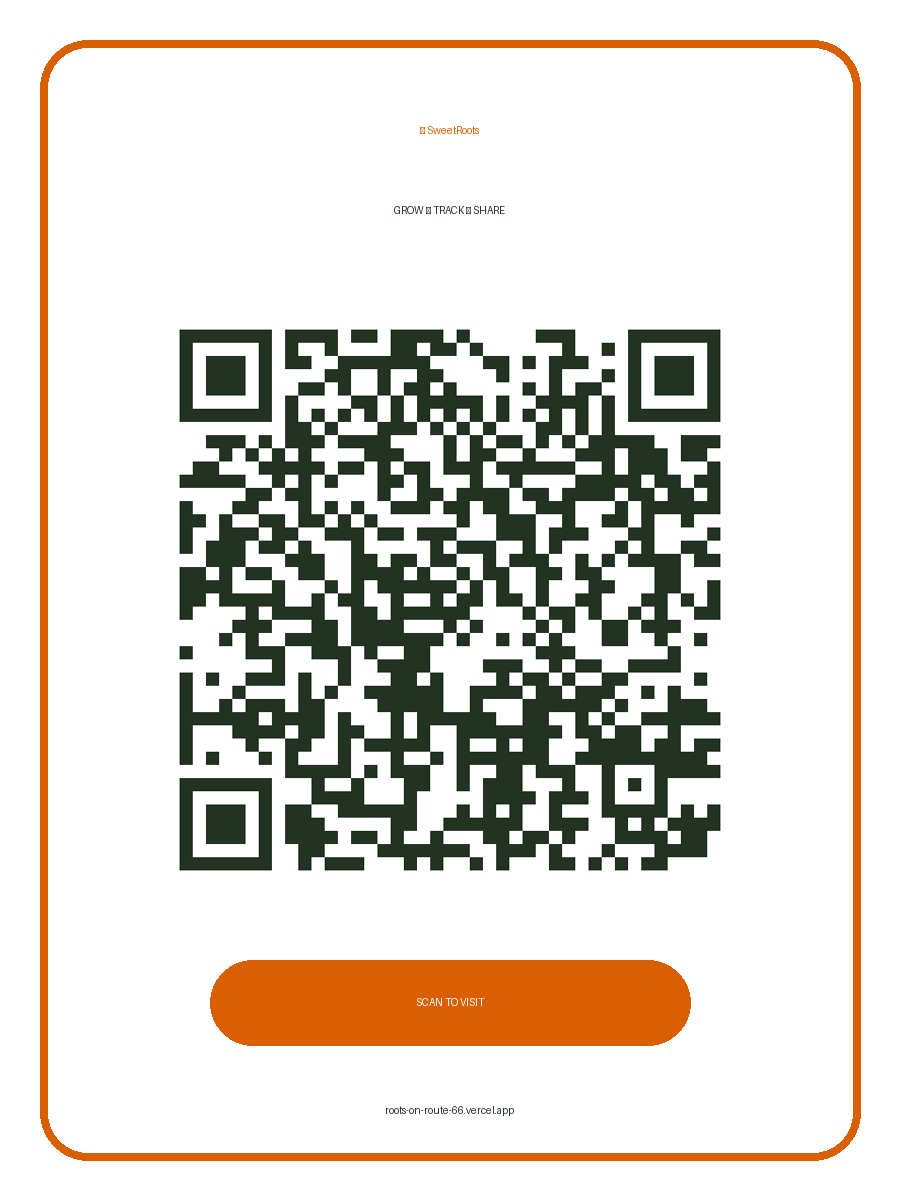
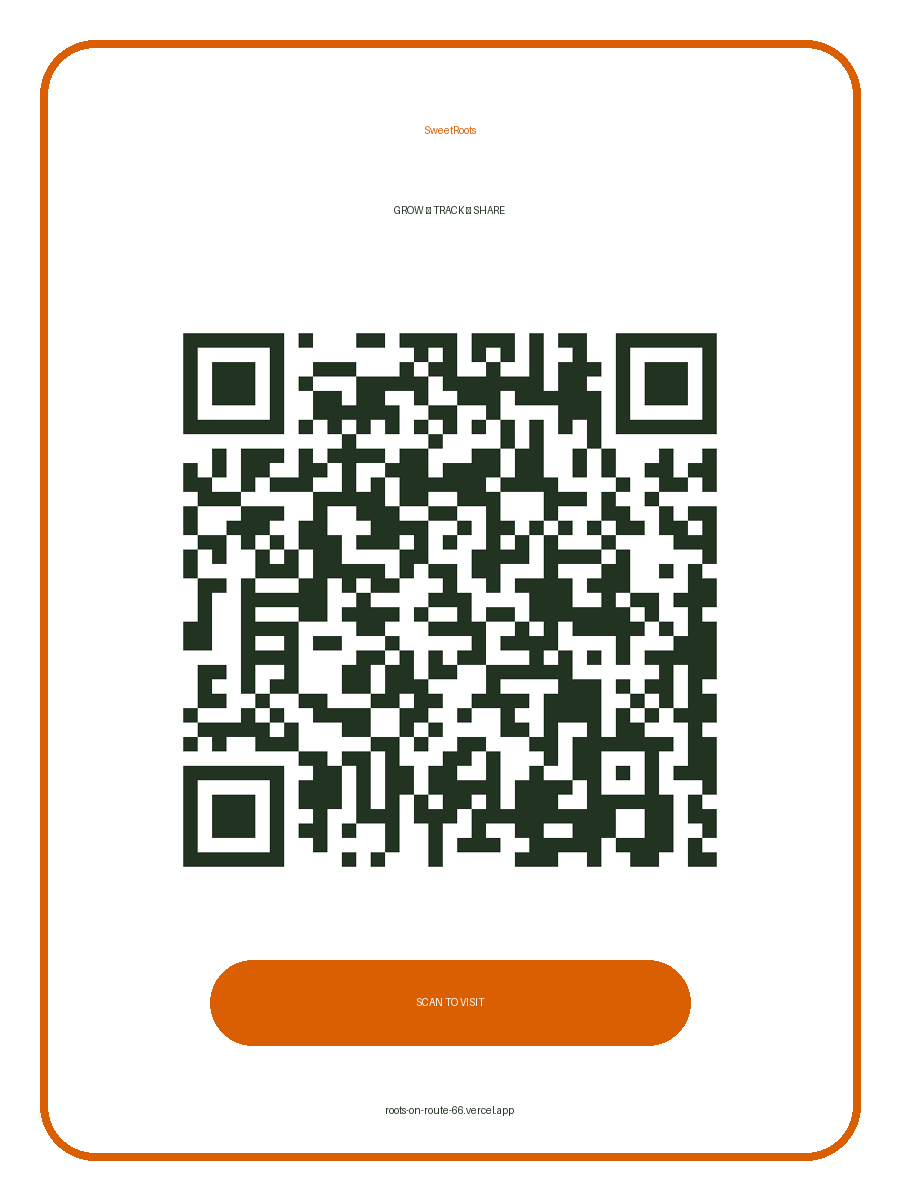
Fix QR marketing assets to point to production site

diff --git a/marketing/qr_codes/source/create_qr_assets.py b/marketing/qr_codes/source/create_qr_assets.py
@@ -1,33 +1,32 @@
-"""Create SweetRoots marketing QR code assets."""
+"""Create SweetRoots QR marketing assets in the correct folders."""
 
 from pathlib import Path
 
 import qrcode
-from PIL import Image, ImageDraw, ImageFont
+from PIL import Image, ImageDraw
 
 
 SITE_URL = "https://roots-on-route-66.vercel.app"
-OUTPUT_DIR = Path(__file__).parent / "qr_codes"
+QR_ROOT = Path(__file__).resolve().parents[1]
 
-
-DESIGNS = [
-    ("01_classic_dark.png", "#061827", "#f97316", "#ffffff"),
-    ("02_natural_fresh.png", "#fff7df", "#4f772d", "#263618"),
-    ("03_earthy_organic.png", "#fff4d6", "#a0521d", "#4b2e16"),
-    ("04_sunset_harvest.png", "#101827", "#f97316", "#ffffff"),
-    ("05_circle_sticker.png", "#ffffff", "#d95f02", "#223322"),
-    ("06_minimal_clean.png", "#ffffff", "#f97316", "#061827"),
-    ("07_business_card_style.png", "#061827", "#f97316", "#ffffff"),
-    ("08_plant_tag_style.png", "#061827", "#f59e0b", "#ffffff"),
+ASSETS = [
+    ("posters", "01_classic_dark.png", "#061827", "#f97316", "#ffffff"),
+    ("posters", "02_natural_fresh.png", "#fff7df", "#4f772d", "#263618"),
+    ("posters", "03_earthy_organic.png", "#fff4d6", "#a0521d", "#4b2e16"),
+    ("posters", "04_sunset_harvest.png", "#101827", "#f97316", "#ffffff"),
+    ("stickers", "05_circle_sticker.png", "#ffffff", "#d95f02", "#223322"),
+    ("social_media", "06_minimal_clean.png", "#ffffff", "#f97316", "#061827"),
+    ("business_cards", "07_business_card_style.png", "#061827", "#f97316", "#ffffff"),
+    ("plant_tags", "08_plant_tag_style.png", "#061827", "#f59e0b", "#ffffff"),
 ]
 
 
 def make_qr(fill_color, back_color):
-    """Create a QR image that points to the SweetRoots website."""
+    """Create a scannable QR code that points to the SweetRoots website."""
     qr = qrcode.QRCode(
-        version=6,
+        version=None,
         error_correction=qrcode.constants.ERROR_CORRECT_H,
-        box_size=12,
+        box_size=14,
         border=3,
     )
     qr.add_data(SITE_URL)
@@ -39,24 +38,28 @@ def make_qr(fill_color, back_color):
     ).convert("RGBA")
 
 
-def make_card(filename, background, accent, text_color):
-    """Create one branded QR card image."""
+def make_asset(folder, filename, background, accent, text_color):
+    """Create one QR marketing asset in its assigned folder."""
     width, height = 900, 1200
     card = Image.new("RGBA", (width, height), background)
     draw = ImageDraw.Draw(card)
 
-    qr_img = make_qr(text_color, "#ffffff")
-    qr_img = qr_img.resize((620, 620))
+    qr_img = make_qr(text_color, "#ffffff").resize((620, 620))
 
     draw.rounded_rectangle(
         (40, 40, width - 40, height - 40),
-        radius=48,
+        radius=55,
         outline=accent,
         width=8,
     )
 
-    draw.text((width // 2, 130), "🍠 SweetRoots", fill=accent, anchor="mm")
-    draw.text((width // 2, 210), "GROW • TRACK • SHARE", fill=text_color, anchor="mm")
+    draw.text((width // 2, 130), "SweetRoots", fill=accent, anchor="mm")
+    draw.text(
+        (width // 2, 210),
+        "GROW • TRACK • SHARE",
+        fill=text_color,
+        anchor="mm",
+    )
 
     qr_x = (width - qr_img.width) // 2
     card.alpha_composite(qr_img, (qr_x, 290))
@@ -67,20 +70,26 @@ def make_card(filename, background, accent, text_color):
         fill=accent,
     )
     draw.text((width // 2, 1002), "SCAN TO VISIT", fill="#ffffff", anchor="mm")
-    draw.text((width // 2, 1110), SITE_URL.replace("https://", ""), fill=text_color, anchor="mm")
+    draw.text(
+        (width // 2, 1110),
+        SITE_URL.replace("https://", ""),
+        fill=text_color,
+        anchor="mm",
+    )
 
-    output_path = OUTPUT_DIR / filename
+    output_dir = QR_ROOT / folder
+    output_dir.mkdir(parents=True, exist_ok=True)
+
+    output_path = output_dir / filename
     card.convert("RGB").save(output_path, quality=95)
 
 
 def main():
-    """Generate all SweetRoots QR marketing assets."""
-    OUTPUT_DIR.mkdir(parents=True, exist_ok=True)
+    """Generate all QR assets."""
+    for folder, filename, background, accent, text_color in ASSETS:
+        make_asset(folder, filename, background, accent, text_color)
 
-    for filename, background, accent, text_color in DESIGNS:
-        make_card(filename, background, accent, text_color)
-
-    print(f"Created QR files in: {OUTPUT_DIR}")
+    print(f"All QR assets point to: {SITE_URL}")
 
 
 if __name__ == "__main__":
